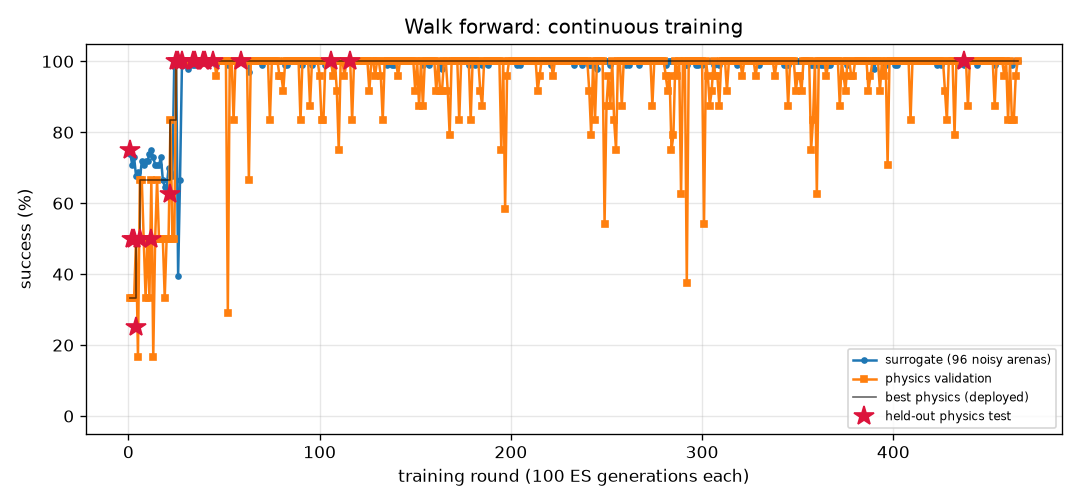
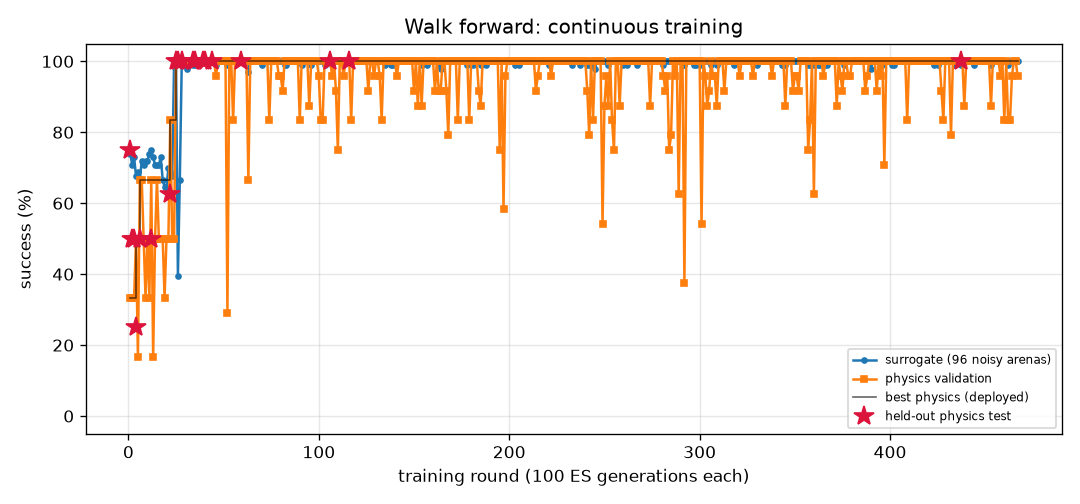
FlyLab: continuous training progress
- walk_forward: optimal, physics val 100% of 24, round 467
- turn: optimal, physics val 100% of 24, round 1221
- goto: optimal, physics val 100% of 24, round 361
- odor_seek: optimal, physics val 100% of 24, round 288
- odor_avoid: optimal, physics val 100% of 24, round 1045
- light_seek: optimal, physics val 100% of 24, round 563
- light_avoid: optimal, physics val 100% of 24, round 761

diff --git a/projects/09_flylab/training/walk_forward/REPORT.md b/projects/09_flylab/training/walk_forward/REPORT.md
@@ -1,14 +1,14 @@
 # Walk forward (`walk_forward`) — training report
 
-*Auto-generated by `train_brains.py`, last updated 2026-11-21T00:21:50.*
+*Auto-generated by `train_brains.py`, last updated 2026-11-21T00:51:04.*
 
 ![curve](curve.png)
 
 | | |
 |---|---|
-| rounds | 465 |
-| ES generations | 46500 |
-| physics runs | 11206 |
+| rounds | 467 |
+| ES generations | 46700 |
+| physics runs | 11254 |
 | status | **optimal** |
 | best brain | round 437: physics validation **100%** on 24 arenas, surrogate 99% |
 | held-out physics test | **100%** on 32 unseen arenas (95% CI 89%-100%) (errors: [0.13, 0.13, 0.18, 0.2, 0.13, 0.13, 0.13, 0.2, 0.2, 0.19, 0.18, 0.13, 0.21, 0.19, 0.13, 0.15, 0.13, 0.13, 0.13, 0.16, 0.17, 0.2, 0.13, 0.12, 0.13, 0.13, 0.2, 0.13, 0.13, 0.13, 0.19, 0.13]) |
@@ -17,8 +17,6 @@ Physics error per arena: mm from target at the end (< 1.5 and standing still = s
 
 | round | level | gens | sigma | surrogate | physics val | val errors | test | note |
 |---:|---:|---:|---:|---:|---:|---|---:|---|
-| 426 | 3 | 42600 | 0.025 | 100% | 100% | [0.35, 0.38, 0.22, 0.34, 0.39, 0.16, 0.38, 0.21, 0.39, 0.39, 0.15, 0.35, 0.25, 0.17, 0.28, 0.34, 0.3, 0.35, 0.24, 0.32, 0.22, 0.38, 0.31, 0.25] |  |  |
-| 427 | 3 | 42700 | 0.024 | 100% | 92% | [0.08, 0.12, 0.01, 0.09, 0.16, 0.06, 0.14, 0.17, 0.14, 0.11, 0.35, 0.18, 0.09, 0.06, 0.06, 0.12, 0.07, 0.17, 0.07, 0.12, 0.12, 0.11, 0.18, 0.05] |  |  |
 | 428 | 3 | 42800 | 0.024 | 100% | 83% | [0.21, 0.23, 0.89, 0.21, 0.24, 0.04, 0.23, 0.39, 0.23, 0.23, 0.39, 0.21, 0.07, 0.34, 0.22, 0.21, 0.19, 0.24, 0.07, 0.23, 0.06, 0.23, 0.18, 0.07] |  | restart from best |
 | 429 | 3 | 42900 | 0.024 | 100% | 100% | [0.22, 0.24, 0.17, 0.22, 0.24, 0.16, 0.24, 0.19, 0.24, 0.24, 0.16, 0.22, 0.18, 0.17, 0.22, 0.23, 0.21, 0.24, 0.19, 0.23, 0.2, 0.23, 0.22, 0.19] |  |  |
 | 430 | 3 | 43000 | 0.024 | 100% | 100% | [0.32, 0.35, 0.03, 0.31, 0.35, 0.07, 0.35, 0.27, 0.35, 0.34, 0.07, 0.33, 0.28, 0.05, 0.33, 0.33, 0.31, 0.35, 0.22, 0.34, 0.29, 0.34, 0.32, 0.28] |  |  |
@@ -57,3 +55,5 @@ Physics error per arena: mm from target at the end (< 1.5 and standing still = s
 | 463 | 3 | 46300 | 0.025 | 100% | 83% | [0.1, 0.13, 0.05, 0.04, 0.11, 0.03, 0.09, 0.09, 0.09, 0.1, 0.1, 0.09, 0.25, 0.17, 0.04, 0.09, 0.04, 0.07, 0.14, 0.07, 0.06, 0.11, 0.09, 0.16] |  |  |
 | 464 | 3 | 46400 | 0.024 | 100% | 96% | [0.21, 0.21, 0.04, 0.21, 0.2, 0.5, 0.21, 0.17, 0.21, 0.19, 0.48, 0.12, 0.17, 0.12, 0.22, 0.18, 0.21, 0.21, 0.17, 0.22, 0.18, 0.18, 0.08, 0.17] |  |  |
 | 465 | 3 | 46500 | 0.024 | 100% | 100% | [0.24, 0.2, 0.16, 0.23, 0.2, 0.14, 0.2, 0.19, 0.2, 0.19, 0.22, 0.16, 0.19, 0.14, 0.23, 0.17, 0.22, 0.21, 0.2, 0.22, 0.21, 0.18, 0.15, 0.19] |  | restart from best |
+| 466 | 3 | 46600 | 0.025 | 100% | 100% | [0.33, 0.33, 0.28, 0.33, 0.33, 0.26, 0.33, 0.3, 0.33, 0.31, 0.25, 0.3, 0.3, 0.27, 0.33, 0.31, 0.33, 0.34, 0.31, 0.34, 0.32, 0.32, 0.3, 0.29] |  |  |
+| 467 | 3 | 46700 | 0.024 | 100% | 96% | [0.23, 0.25, 0.06, 0.22, 0.25, 0.09, 0.25, 0.17, 0.25, 0.24, 0.38, 0.15, 0.08, 0.09, 0.24, 0.22, 0.22, 0.25, 0.18, 0.24, 0.19, 0.24, 0.14, 0.17] |  |  |

diff --git a/projects/09_flylab/training/goto/REPORT.md b/projects/09_flylab/training/goto/REPORT.md
@@ -1,14 +1,14 @@
 # Go to a location (`goto`) — training report
 
-*Auto-generated by `train_brains.py`, last updated 2026-11-21T00:18:19.*
+*Auto-generated by `train_brains.py`, last updated 2026-11-21T00:38:05.*
 
 ![curve](curve.png)
 
 | | |
 |---|---|
-| rounds | 360 |
-| ES generations | 36000 |
-| physics runs | 8590 |
+| rounds | 361 |
+| ES generations | 36100 |
+| physics runs | 8614 |
 | status | **optimal** |
 | best brain | round 176: physics validation **100%** on 24 arenas, surrogate 100% |
 | held-out physics test | **100%** on 32 unseen arenas (95% CI 89%-100%) (errors: [0.2, 0.32, 0.19, 0.24, 0.18, 0.2, 0.19, 0.17, 0.22, 0.23, 0.23, 0.26, 0.2, 0.19, 0.24, 0.23, 0.22, 0.24, 0.2, 0.22, 0.2, 0.2, 0.26, 0.19, 0.22, 0.18, 0.26, 0.22, 0.2, 0.26, 0.23, 0.23]) |
@@ -17,7 +17,6 @@ Physics error per arena: mm from target at the end (< 1.5 and standing still = s
 
 | round | level | gens | sigma | surrogate | physics val | val errors | test | note |
 |---:|---:|---:|---:|---:|---:|---|---:|---|
-| 321 | 3 | 32100 | 0.024 | 99% | 100% | [0.53, 0.47, 0.37, 0.46, 0.37, 0.4, 0.55, 0.42, 0.51, 0.41, 0.38, 0.44, 0.54, 0.36, 0.46, 0.42, 0.55, 0.42, 0.39, 0.54, 0.4, 0.46, 0.52, 0.43] |  |  |
 | 322 | 3 | 32200 | 0.025 | 99% | 100% | [0.6, 0.59, 0.58, 0.48, 0.45, 0.47, 0.59, 0.52, 0.51, 0.47, 0.45, 0.49, 0.58, 0.49, 0.52, 0.55, 0.5, 0.49, 0.45, 0.57, 0.51, 0.5, 0.59, 0.49] |  |  |
 | 323 | 3 | 32300 | 0.025 | 100% | 100% | [0.36, 0.37, 0.34, 0.29, 0.27, 0.31, 0.35, 0.34, 0.29, 0.26, 0.27, 0.29, 0.34, 0.3, 0.32, 0.37, 0.3, 0.28, 0.27, 0.32, 0.33, 0.28, 0.35, 0.29] |  |  |
 | 324 | 3 | 32400 | 0.024 | 98% | 100% | [0.35, 0.35, 0.25, 0.3, 0.25, 0.26, 0.4, 0.3, 0.31, 0.28, 0.25, 0.29, 0.33, 0.28, 0.37, 0.34, 0.37, 0.25, 0.25, 0.32, 0.3, 0.28, 0.35, 0.28] |  | restart from best |
@@ -57,3 +56,4 @@ Physics error per arena: mm from target at the end (< 1.5 and standing still = s
 | 358 | 3 | 35800 | 0.024 | 99% | 100% | [0.53, 0.45, 0.44, 0.49, 0.39, 0.43, 0.5, 0.47, 0.5, 0.41, 0.43, 0.47, 0.52, 0.38, 0.47, 0.43, 0.55, 0.42, 0.4, 0.55, 0.39, 0.46, 0.5, 0.46] |  |  |
 | 359 | 3 | 35900 | 0.025 | 92% | 100% | [0.26, 0.26, 0.19, 0.26, 0.19, 0.23, 0.24, 0.28, 0.27, 0.19, 0.2, 0.24, 0.28, 0.22, 0.21, 0.25, 0.29, 0.24, 0.18, 0.27, 0.23, 0.19, 0.29, 0.25] |  |  |
 | 360 | 3 | 36000 | 0.029 | 99% | 100% | [0.65, 0.61, 0.59, 0.54, 0.48, 0.52, 0.66, 0.57, 0.61, 0.5, 0.48, 0.53, 0.62, 0.46, 0.56, 0.51, 0.65, 0.53, 0.5, 0.6, 0.51, 0.56, 0.62, 0.56] |  | restart from best |
+| 361 | 3 | 36100 | 0.024 | 99% | 100% | [0.53, 0.55, 0.44, 0.51, 0.41, 0.51, 0.5, 0.59, 0.56, 0.42, 0.43, 0.48, 0.56, 0.48, 0.54, 0.47, 0.55, 0.52, 0.4, 0.54, 0.47, 0.45, 0.58, 0.55] |  |  |

diff --git a/README.md b/README.md
@@ -90,17 +90,17 @@ automatically as training improves it.*
 </p>
 
 <!-- BRAINS:START -->
-**Status on 2026-11-20** (rewritten daily by `daily.py`; the [dashboard](https://rohitcraftsyt.github.io/FruitFlyBrain/projects/09_flylab/dashboard/) is live):
+**Status on 2026-11-21** (rewritten daily by `daily.py`; the [dashboard](https://rohitcraftsyt.github.io/FruitFlyBrain/projects/09_flylab/dashboard/) is live):
 
 | Skill brain | Rounds | Physics validation | **Held-out physics test** (95% CI) | Fresh-arena check | Status |
 |---|---:|---:|---:|---:|---|
-| Walk forward | 444 | 100% of 24 | **100% of 32** (89%–100%) | 100% of 16 (2026-11-20) | ✅ optimal |
-| Turn in place | 1190 | 100% of 24 | **97% of 32** (84%–99%) | 94% of 16 (2026-11-20) | ✅ optimal |
-| Go to a location | 344 | 100% of 24 | **100% of 32** (89%–100%) | 100% of 16 (2026-11-20) | ✅ optimal |
-| Find food by smell | 276 | 100% of 24 | **100% of 32** (89%–100%) | 100% of 16 (2026-11-20) | ✅ optimal |
-| Escape a bad smell | 1014 | 100% of 24 | **97% of 32** (84%–99%) | 100% of 16 (2026-11-20) | ✅ optimal |
-| Walk toward light | 546 | 100% of 24 | **100% of 32** (89%–100%) | 100% of 16 (2026-11-20) | ✅ optimal |
-| Hide from light | 731 | 100% of 24 | **100% of 32** (89%–100%) | 100% of 16 (2026-11-20) | ✅ optimal |
+| Walk forward | 467 | 100% of 24 | **100% of 32** (89%–100%) | 100% of 16 (2026-11-21) | ✅ optimal |
+| Turn in place | 1221 | 100% of 24 | **97% of 32** (84%–99%) | 94% of 16 (2026-11-21) | ✅ optimal |
+| Go to a location | 361 | 100% of 24 | **100% of 32** (89%–100%) | 100% of 16 (2026-11-21) | ✅ optimal |
+| Find food by smell | 288 | 100% of 24 | **100% of 32** (89%–100%) | 100% of 16 (2026-11-21) | ✅ optimal |
+| Escape a bad smell | 1045 | 100% of 24 | **97% of 32** (84%–99%) | 88% of 16 (2026-11-21) | ✅ optimal |
+| Walk toward light | 563 | 100% of 24 | **100% of 32** (89%–100%) | 100% of 16 (2026-11-21) | ✅ optimal |
+| Hide from light | 761 | 100% of 24 | **100% of 32** (89%–100%) | 100% of 16 (2026-11-21) | ✅ optimal |
 <!-- BRAINS:END -->
 
 **How it got here** (full [engineering log](projects/09_flylab/README.md#making-skills-survive-the-jump-to-physics-engineering-log)):

diff --git a/projects/09_flylab/training/CHECKS.md b/projects/09_flylab/training/CHECKS.md
@@ -1,15 +1,15 @@
 # Daily fresh-arena checks
 
-*Auto-generated by `recheck.py`, last updated 2026-11-20T10:18:53.*
+*Auto-generated by `recheck.py`, last updated 2026-11-21T01:04:31.*
 
 Every day each optimal brain is re-run in MuJoCo on a new set of random arenas it has never seen. The fixed held-out test decides 'optimal' (>= 90%); these checks watch for brains that only look good on that fixed set. Anything under 80% is flagged.
 
 | skill | last check | brain round | fresh arenas | success (95% CI) | last 7 checks |
 |---|---|---:|---:|---|---|
-| Walk forward | 2026-11-20 | 437 | 16 | 100% (81%-100%) | 100% 100% 100% 100% 100% 100% 100% |
-| Turn in place | 2026-11-20 | 80 | 16 | 94% (72%-99%) | 100% 100% 100% 88% 100% 94% 94% |
-| Go to a location | 2026-11-20 | 176 | 16 | 100% (81%-100%) | 100% 100% 100% 100% 100% 100% 100% |
-| Find food by smell | 2026-11-20 | 240 | 16 | 100% (81%-100%) | 100% 100% 100% 100% 100% 100% 100% |
-| Escape a bad smell | 2026-11-20 | 373 | 16 | 100% (81%-100%) | 94% 100% 100% 100% 94% 100% 100% |
-| Walk toward light | 2026-11-20 | 375 | 16 | 100% (81%-100%) | 100% 100% 100% 100% 100% 100% 100% |
-| Hide from light | 2026-11-20 | 159 | 16 | 100% (81%-100%) | 100% 100% 100% 100% 100% 100% 100% |
+| Walk forward | 2026-11-21 | 437 | 16 | 100% (81%-100%) | 100% 100% 100% 100% 100% 100% 100% |
+| Turn in place | 2026-11-21 | 80 | 16 | 94% (72%-99%) | 100% 100% 88% 100% 94% 94% 94% |
+| Go to a location | 2026-11-21 | 176 | 16 | 100% (81%-100%) | 100% 100% 100% 100% 100% 100% 100% |
+| Find food by smell | 2026-11-21 | 240 | 16 | 100% (81%-100%) | 100% 100% 100% 100% 100% 100% 100% |
+| Escape a bad smell | 2026-11-21 | 373 | 16 | 88% (64%-96%) | 100% 100% 100% 94% 100% 100% 88% |
+| Walk toward light | 2026-11-21 | 375 | 16 | 100% (81%-100%) | 100% 100% 100% 100% 100% 100% 100% |
+| Hide from light | 2026-11-21 | 159 | 16 | 100% (81%-100%) | 100% 100% 100% 100% 100% 100% 100% |

diff --git a/projects/09_flylab/training/TRAINING.md b/projects/09_flylab/training/TRAINING.md
@@ -1,14 +1,14 @@
 # FlyLab brains — continuous training log
 
-*Auto-generated by `train_brains.py`, last updated 2026-11-21T00:21:50.*
+*Auto-generated by `train_brains.py`, last updated 2026-11-21T01:05:55.*
 
 Every skill has its own brain and its own training process: surrogate ES rounds, physics validation in MuJoCo, keep-the-best selection, and a held-out physics test that is never used for selection. See each skill's report for its full round-by-round history. Mastery is progressive: passing a level (100% physics validation, >=95% surrogate) doubles the validation and test arena sets; a brain is **optimal** once it holds up at level 3 (>=95% of 24 validation arenas) AND scores >=90% on the 32 held-out test arenas. Test columns show 95% Wilson confidence intervals.
 
 | skill | rounds | ES generations | physics runs | surrogate | physics val | **physics test** | status |
 |---|---:|---:|---:|---:|---:|---:|---|
-| [Walk forward](walk_forward/REPORT.md) | 465 | 46500 | 11206 | 99% | 100% of 24 | 100% of 32 (CI 89-100%) | **optimal** |
+| [Walk forward](walk_forward/REPORT.md) | 467 | 46700 | 11254 | 99% | 100% of 24 | 100% of 32 (CI 89-100%) | **optimal** |
 | [Turn in place](turn/REPORT.md) | 1221 | 122100 | 29550 | 100% | 100% of 24 | 97% of 32 (CI 84-99%) | **optimal** |
-| [Go to a location](goto/REPORT.md) | 360 | 36000 | 8590 | 100% | 100% of 24 | 100% of 32 (CI 89-100%) | **optimal** |
+| [Go to a location](goto/REPORT.md) | 361 | 36100 | 8614 | 100% | 100% of 24 | 100% of 32 (CI 89-100%) | **optimal** |
 | [Find food by smell](odor_seek/REPORT.md) | 288 | 28800 | 6406 | 100% | 100% of 24 | 100% of 32 (CI 89-100%) | **optimal** |
 | [Escape a bad smell](odor_avoid/REPORT.md) | 1045 | 104500 | 22386 | 97% | 100% of 24 | 97% of 32 (CI 84-99%) | **optimal** |
 | [Walk toward light](light_seek/REPORT.md) | 563 | 56300 | 10392 | 100% | 100% of 24 | 100% of 32 (CI 89-100%) | **optimal** |
